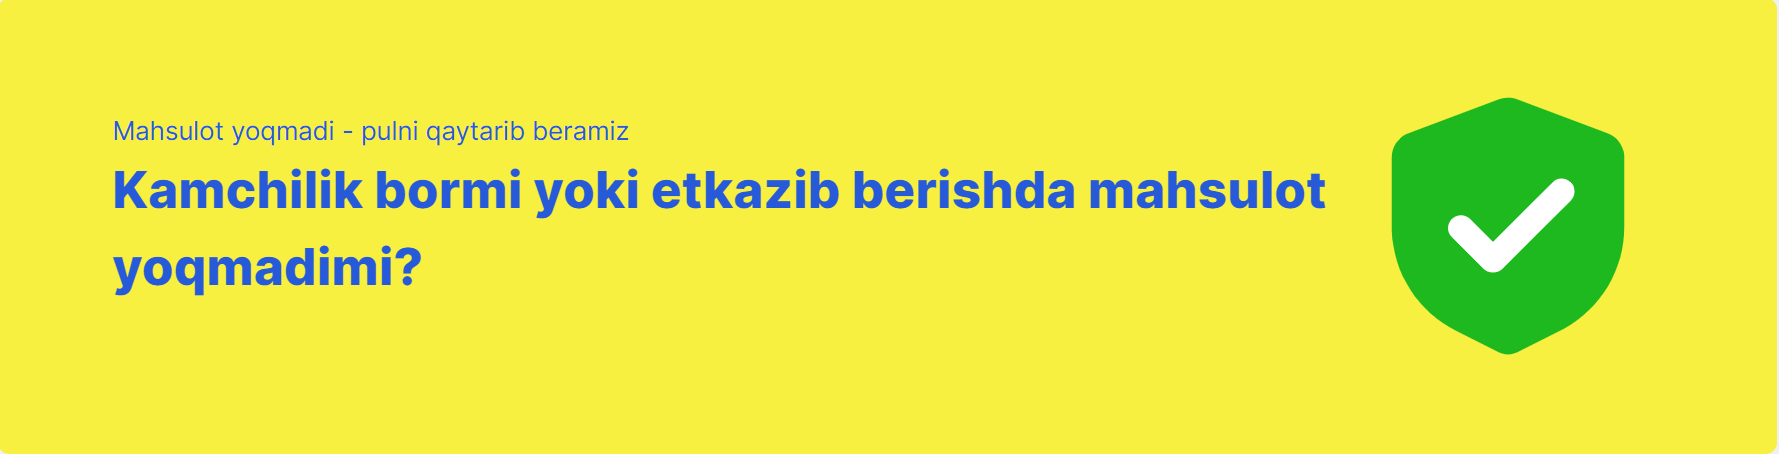
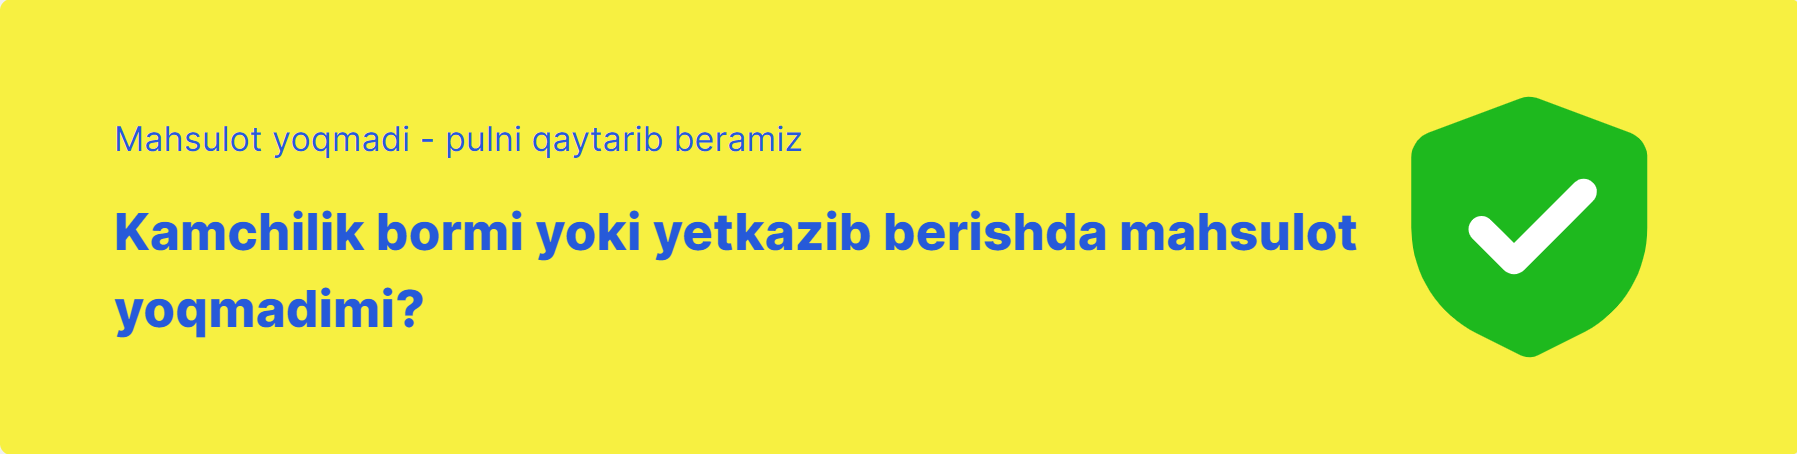
...

diff --git a/assets/icons/global.tsx b/assets/icons/global.tsx
@@ -511,3 +511,32 @@ export const noteIcon = (
     </defs>
   </svg>
 );
+
+export const noteIconSM = (
+  <svg
+    xmlns="http://www.w3.org/2000/svg"
+    width="140"
+    height="140"
+    viewBox="0 0 240 240"
+    fill="none"
+    className="sm:w-4"
+  >
+    <g clip-path="url(#clip0_2_28911)">
+      <path
+        d="M58.666 152.373V76.3878L161.454 61.334L199.999 102.194L137.185 194.667L58.666 152.373Z"
+        fill="white"
+      />
+      <path
+        fill-rule="evenodd"
+        clip-rule="evenodd"
+        d="M112.98 21.95C116.926 20.4735 121.238 20.281 125.3 21.4L127.02 21.95L197.02 48.1999C200.569 49.5308 203.667 51.843 205.953 54.867C208.239 57.8909 209.618 61.5022 209.93 65.2799L210 66.9299V120.56C210 136.764 205.624 152.668 197.336 166.592C189.048 180.516 177.154 191.944 162.91 199.67L160.25 201.06L126.71 217.83C124.863 218.752 122.846 219.283 120.785 219.39C118.723 219.496 116.662 219.176 114.73 218.45L113.29 217.83L79.75 201.06C65.2561 193.813 52.9878 182.787 44.24 169.146C35.4923 155.505 30.5898 139.756 30.05 123.56L30 120.56V66.9299C30.0001 63.1412 31.0763 59.4305 33.1033 56.2297C35.1304 53.0288 38.025 50.4696 41.45 48.8499L42.98 48.1999L112.98 21.95ZM154.33 86.2899L108.35 132.27L90.67 114.59C88.7936 112.715 86.2492 111.662 83.5965 111.663C80.9438 111.664 78.4001 112.719 76.525 114.595C74.6499 116.471 73.597 119.016 73.598 121.668C73.5989 124.321 74.6536 126.865 76.53 128.74L100.57 152.78C101.592 153.802 102.804 154.613 104.139 155.166C105.474 155.719 106.905 156.004 108.35 156.004C109.795 156.004 111.226 155.719 112.561 155.166C113.896 154.613 115.108 153.802 116.13 152.78L168.47 100.43C169.425 99.5075 170.187 98.404 170.711 97.184C171.235 95.9639 171.511 94.6517 171.523 93.3239C171.534 91.9961 171.281 90.6794 170.778 89.4504C170.275 88.2214 169.533 87.1049 168.594 86.166C167.655 85.2271 166.539 84.4845 165.31 83.9817C164.081 83.4789 162.764 83.2259 161.436 83.2374C160.108 83.249 158.796 83.5248 157.576 84.0489C156.356 84.573 155.252 85.3348 154.33 86.2899Z"
+        fill="#1EB91E"
+      />
+    </g>
+    <defs>
+      <clipPath id="clip0_2_28911">
+        <rect width="240" height="240" fill="white" />
+      </clipPath>
+    </defs>
+  </svg>
+);

diff --git a/components/sections/note/index.tsx b/components/sections/note/index.tsx
@@ -1,36 +1,36 @@
-import { noteIcon } from "@/assets/icons/global";
-import React from "react";
-
-const NoteSection = () => {
-  return (
-    <div className="container">
-      <div className="h-[320px] flex justify-between bg-[#F7F041] text-[#265AD9] text-[18px] rounded-lg my-10 p-[80px]">
-        <div className="w-[80%]">
-          <h4>Mahsulot yoqmadi - pulni qaytarib beramiz</h4>
-          <h1 className="text-[36px] font-extrabold">
-            Kamchilik bormi yoki etkazib berishda mahsulot yoqmadimi?
-          </h1>
-        </div>
-        <div className="w-[20%] h-full flex items-center justify-center">
-          {noteIcon}
-        </div>
-      </div>
-    </div>
-  );
-};
-
-export default NoteSection;
-
-// import noteImg from "@/assets/images/note-section-img.png";
-// import Image from "next/image";
+// import { noteIcon } from "@/assets/icons/global";
 // import React from "react";
 
 // const NoteSection = () => {
 //   return (
-//     <div className="container my-[10px] md:my-[15px] lg:my-[20px] ">
-//       <Image src={noteImg} alt="img" className="rounded-lg" />
+//     <div className="container">
+//       <div className="h-[320px] flex justify-between bg-[#F7F041] text-[#265AD9] text-[18px] rounded-lg my-10 p-[80px]">
+//         <div className="w-[80%]">
+//           <h4 className="text-[24px]">Mahsulot yoqmadi - pulni qaytarib beramiz</h4>
+//           <h1 className="text-[36px] mt-5 font-extrabold">
+//             Kamchilik bormi yoki yetkazib berishda mahsulot yoqmadimi?
+//           </h1>
+//         </div>
+//         <div className="w-[20%] h-full flex items-center justify-center">
+//           {noteIcon}
+//         </div>
+//       </div>
 //     </div>
 //   );
 // };
 
 // export default NoteSection;
+
+import noteImg from "@/assets/images/note-section-img.png";
+import Image from "next/image";
+import React from "react";
+
+const NoteSection = () => {
+  return (
+    <div className="container my-[10px] md:my-[15px] lg:my-[20px] ">
+      <Image src={noteImg} alt="img" className="rounded-lg" />
+    </div>
+  );
+};
+
+export default NoteSection;
